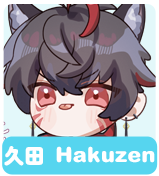
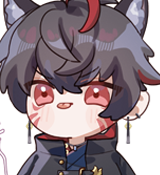
update special theme

diff --git a/src/App.js b/src/App.js
@@ -8,6 +8,7 @@ import html2canvas from 'html2canvas'
 function App() {
   const [scheduleData, setScheduleData] = useState([]);
   const [selectDate, setSelectDateIndex] = useState({matchIndex: 0, mondayString: '01.01', sundayString: '01.07'});
+  const [enableSpecialTheme, setEnableSpecialTheme] = useState(false);
 
   useEffect(() => {
     const getSheet = async () => {
@@ -33,6 +34,10 @@ function App() {
       });
   }
 
+  const handleThemeChange = (event) => {
+    setEnableSpecialTheme(event.currentTarget.checked)
+  }
+
   const weeklySchedule = getWeeklySchedule(scheduleData, selectDate.matchIndex);
   const memberWeeklySchedule = transformScheduleData(weeklySchedule);
   return (
@@ -40,9 +45,16 @@ function App() {
       <div className="control-panel-wrapper">
         <div className="control-panel">
           <button onClick={handleTakeCanvas}>Download image</button>
+          <div className="theme-container">
+            <span>Theme</span>
+            <label className="switch">
+              <input type="checkbox" checked={enableSpecialTheme} onChange={handleThemeChange}/>
+              <span className="slider round"></span>
+            </label>
+          </div>
         </div>
       </div>
-      <div className='weekly-schedule-wrapper'>
+      <div className={`weekly-schedule-wrapper ${enableSpecialTheme ? 'special-theme' : ''}`}>
         <WeeklySchedule ref={refPhoto} scheduleData={memberWeeklySchedule} selectDate={selectDate} />
       </div>
     </div>

diff --git a/src/css/controlPanel.css b/src/css/controlPanel.css
@@ -14,6 +14,7 @@
   flex-direction: column;
   justify-content: space-around;
   padding: 40px;
+  align-items: center;
 }
 
 .control-panel button {
@@ -31,4 +32,80 @@
 
 .control-panel button:active {
   background-color: rgb(152, 152, 152);
+}
+
+.theme-container {
+  display: flex;
+  flex-direction: column;
+  align-items: center;
+  width: 100%;
+  color: white;
+}
+
+.theme-container .switch{
+  margin-top: 12px;
+}
+
+
+/* The switch - the box around the slider */
+.switch {
+  position: relative;
+  display: inline-block;
+  width: 60px;
+  height: 34px;
+}
+
+/* Hide default HTML checkbox */
+.switch input {
+  opacity: 0;
+  width: 0;
+  height: 0;
+}
+
+/* The slider */
+.slider {
+  position: absolute;
+  cursor: pointer;
+  top: 0;
+  left: 0;
+  right: 0;
+  bottom: 0;
+  background-color: #ccc;
+  -webkit-transition: .4s;
+  transition: .4s;
+}
+
+.slider:before {
+  position: absolute;
+  content: "";
+  height: 26px;
+  width: 26px;
+  left: 4px;
+  bottom: 4px;
+  background-color: white;
+  -webkit-transition: .4s;
+  transition: .4s;
+}
+
+input:checked + .slider {
+  background-color: #2196F3;
+}
+
+input:focus + .slider {
+  box-shadow: 0 0 1px #2196F3;
+}
+
+input:checked + .slider:before {
+  -webkit-transform: translateX(26px);
+  -ms-transform: translateX(26px);
+  transform: translateX(26px);
+}
+
+/* Rounded sliders */
+.slider.round {
+  border-radius: 34px;
+}
+
+.slider.round:before {
+  border-radius: 50%;
 }

diff --git a/src/css/ScheduleCard.css b/src/css/ScheduleCard.css
@@ -95,8 +95,10 @@
 
 
 .member-card.member {
-  border-width: 0px;
-  background: transparent !important;
+  /* border-width: 0px; */
+  position: relative;
+  overflow: hidden;
+  background: var(--blue-light-3) !important;
 }
 
 .member-card-image {
@@ -105,15 +107,30 @@
   width: 100%;
 }
 
+
+/* member card background color */
 .rilo .member-card,
 .melco .member-card {
   background-color: var(--pink-light-alpha);
 }
 
 .hatsuki .member-card,
-.hakuzen .member-card {
+.hakuzen .member-card{
   background-color: var(--blue-light-alpha);
 }
+
+
+/* member card name on image background color */
+.rilo .member-card-image + span,
+.melco .member-card-image + span {
+  background-color: var(--pink-light);
+}
+
+.hatsuki .member-card-image + span,
+.hakuzen .member-card-image + span {
+  background-color: var(--blue-light);
+}
+
 
 .member-card.rest-day {
   background-color: var(--green-light-alpha);
@@ -139,4 +156,14 @@
 .platform-logo {
   width: 90%;
   height: 90%;
+}
+
+.member-card-image + span {
+  position: absolute;
+  bottom: 0px;
+  border-radius: 8px 8px 0 0;
+  background-color: transparent;
+  color: white;
+  width: 100%;
+  line-height: 1.6;
 }

diff --git a/src/css/SpecialTheme.css b/src/css/SpecialTheme.css
@@ -1,0 +1,32 @@
+.special-theme .weekly-schedule {
+  background-image: url('../images/weeklyTableSpecialTheme.jpg');
+}
+
+.special-theme .rilo .member-card,
+.special-theme .melco .member-card {
+  background-color: var(--pink-light-alpha);
+}
+
+.special-theme .hatsuki .member-card,
+.special-theme .hakuzen .member-card {
+  background-color: var(--blue-light-alpha-2);
+}
+
+.special-theme .member-card.rest-day {
+  background-color: var(--purple-light-alpha);
+}
+
+
+/* member card image */
+/* .special-theme .hatsuki .member-card-image {
+  content: url('../images/hatsuki-special.png');
+}
+
+.special-theme .hakuzen .member-card-image {
+  content: url('../images/hakuzen-special.png');
+} */
+
+.special-theme .hatsuki .member-card-image + span,
+.special-theme .hakuzen .member-card-image + span {
+  background-color: var(--blue-light-2);
+}

diff --git a/src/components/MemberCard.jsx b/src/components/MemberCard.jsx
@@ -1,7 +1,7 @@
 import React from 'react';
 import riloImg from '../images/rilo.png';
 import melcoImg from '../images/melco.png';
-import hatsukiImg from '../images/hatsuki.png';
+import hatsukiImg from '../images/hazuki.png';
 import hakuzenImg from '../images/hakuzen.png';
 
 const MEMBER_IMG_MAP = {
@@ -11,10 +11,18 @@ const MEMBER_IMG_MAP = {
   hakuzen: hakuzenImg
 }
 
+const MEMBER_NAME_MAP = {
+  rilo: "流川莉蘿 Rilo",
+  melco: "芽心 Melco",
+  hatsuki: "葉月 Hazuki",
+  hakuzen: "久田 Hakuzen",
+}
+
 function MemberCard({memberName}) {
   return (
     <div className="member-card member">
       <img className="member-card-image" src={MEMBER_IMG_MAP[memberName]} alt="member-card"/>
+      <span>{MEMBER_NAME_MAP[memberName]}</span>
     </div>
   );
 }

diff --git a/src/css/colors.css b/src/css/colors.css
@@ -1,9 +1,14 @@
 :root {
   --blue-light: #56d5ef;
   --blue-light-alpha: #56d5ef99;
+  --blue-light-alpha-2: #8dc0f299;
+  --blue-light-2: #8dc0f2;
+  --blue-light-3: #e3f8fa;
   --blue-shadow: #61d6ed;
   --pink-light-alpha: #ffa2b699;
   --pink-light: #ffa2b6;
   --green-light-alpha: #e3f5e699;
   --green-light: #e3f5e6;
+  --purple-light-alpha: #cbc3ec99;
+  --purple-light: #cbc3ec;
 }

diff --git a/src/App.css b/src/App.css
@@ -3,6 +3,7 @@
 @import "./css/MemberSchedule.css";
 @import "./css/WeeklySchedule.css";
 @import "./css/ScheduleCard.css";
+@import "./css/SpecialTheme.css";
 
 #root {
   min-width: 100vw;
